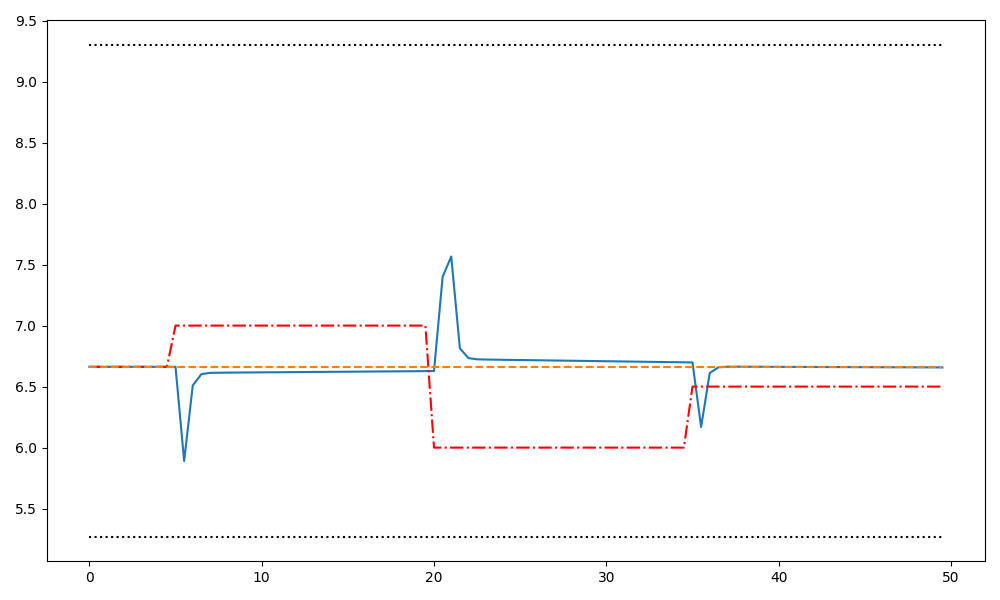
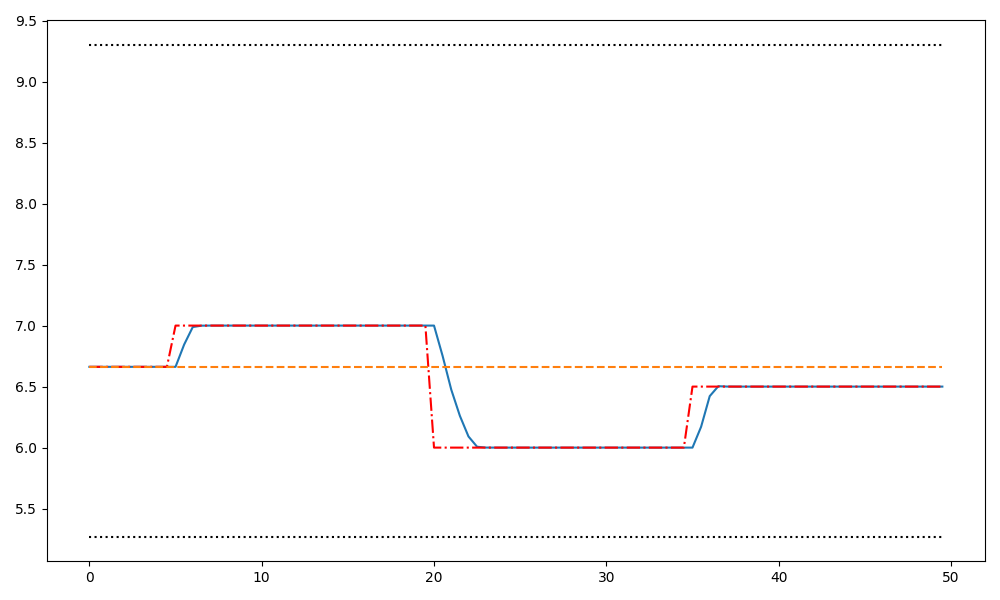
Rodrigo concertou a pressao

Changed region(s): [[0.465, 0.6, 0.93, 0.75], [0.186, 0.42, 0.496, 0.66], [0.155, 0.72, 0.186, 0.75]]

diff --git a/MPC_to_NN/MPCvsNN - Sistema Compressão/run_sim.py b/MPC_to_NN/MPCvsNN - Sistema Compressão/run_sim.py
@@ -51,14 +51,14 @@ a_exp = 0.5
 n_exp = 3.85
 
 # dm/dt = a11 * m + a12 * p + b12 * n
-a11 = P1 * A1/Lc * 1e3 * (float(lut([n_exp*1e4 , m_exp + 0.1])) - float(lut([n_exp*1e4 , m_exp - 0.1]))) / 2 / 0.1
-a12 = -A1 / Lc * 1e3
-b12 = P1 * A1/Lc * 1e3 * (float(lut([n_exp*1e4 + 1e3, m_exp])) - float(lut([n_exp*1e4  - 1e3, m_exp])))/ 2 / 1e3
+a11 = P1 * A1/Lc * 1e6 * (float(lut([n_exp*1e4 , m_exp + 0.1])) - float(lut([n_exp*1e4 , m_exp - 0.1]))) / 2 / 0.1
+a12 = -A1 / Lc * 1e6 
+b12 = P1 * A1/Lc * 1e10 * (float(lut([n_exp*1e4 + 1e3, m_exp])) - float(lut([n_exp*1e4  - 1e3, m_exp])))/ 2 / 1e3
 
 # dp/dt = a21 * m + a22 * p + b21 * a
-a21 = C**2 / Vp
-a22 = -C**2 / Vp * a_exp * kv * 500 / 2 / np.sqrt((p_exp - P_out) * 1000)
-b21 = -C**2 / Vp * kv * np.sqrt((p_exp - P_out) * 1000)
+a21 = C**2 / Vp/1e6
+a22 = -C**2 / Vp * a_exp * kv *500 / np.sqrt((p_exp - P_out) * 1000)/1e6
+b21 = -C**2 / Vp * kv * np.sqrt((p_exp - P_out) * 1000)/1e6
 
 Ac = np.array([[a11, a12],
                [a21, a22]])
@@ -85,7 +85,7 @@ A, B, C, D = ctrl.ssdata(sys_d)
 A_ = np.block([[A,B],[np.zeros((Nu,Nu)), np.eye(Nu)]])
 B_ = np.block([[B], [np.eye(Nu)]])
 
-Qtil = np.array([6e-3, 6e-4])
+Qtil = np.array([6e-3, 56e-4])
 Rtil = np.array([4e-5, 1e-3])
 
 Q = np.diag(np.kron(np.ones(p), Qtil))
@@ -124,7 +124,7 @@ for i in range(p):
 
 H = theta.T @ Q @ theta + R
 H = (H + H.T) / 2  # Garantir que H é simétrico
-F = np.block([[psi.T @ Q @ theta], [Q @ theta]])
+F = np.block([[psi.T @ Q @ theta], [-Q @ theta]])
 
 G = np.block([[theta],
                 [-theta],
@@ -154,7 +154,7 @@ uk = u0.copy()
 
 x_k = np.block([[xk], [uk]])
 yspk = (np.ones((p, Nx)) * ([7.745, 6.662] - y_op.flatten())).reshape(-1, 1)
-z_k = np.block([x_k.T, -yspk.T])
+z_k = np.block([x_k.T, yspk.T])
 
 yMax = np.tile(np.array([[12.3], [9.3]]) - y_op, (p,1))
 yMin = np.tile(np.array([[5.5], [5.27]]) - y_op, (p,1))
@@ -188,7 +188,7 @@ for j in range(K):
     deltaU_mpc[j, :] = deltaU_value[j, :2]
 
     uk = uk + np.eye(2) @ deltaU_mpc[j, :].reshape(-1,1)
-    xk = A @ xk + B @ [[1,0],[0,10000]] @ uk 
+    xk = A @ xk + B @ uk 
     x_k = np.block([[xk], [uk]])
 
     if j == 0:
@@ -200,7 +200,7 @@ for j in range(K):
     elif j == 70:
         yspk = (np.ones((p, Nx)) * ([7.5, 6.5] - y_op.flatten())).reshape(-1, 1)
 
-    z_k = np.block([x_k.T, -yspk.T])
+    z_k = np.block([x_k.T, yspk.T])
 
     z_k_store_mpc[j, :] = z_k
 
@@ -286,7 +286,7 @@ for k in range(K):
 t = np.arange(K) * Ts
 plt.figure(figsize=(10, 6))
 plt.plot(t,z_k_store_mpc[:, 0] + x_op[0], label='Massa (kg)')
-plt.plot(t,-z_k_store_mpc[:, 4] + x_op[0], label='Setpoint', linestyle='-.', color = 'red')
+plt.plot(t,z_k_store_mpc[:, 4] + x_op[0], label='Setpoint', linestyle='-.', color = 'red')
 plt.plot(t,z_k_store_nn[:, 0] + x_op[0], label='Massa NN (kg)', linestyle='--')
 plt.plot(t,np.ones((K,1)) * (yMax[0] + x_op[0]), label='Massa Max', linestyle=':', color='black')
 plt.plot(t,np.ones((K,1)) * (yMin[0] + x_op[0]), label='Massa Min', linestyle=':', color='black')
@@ -295,7 +295,7 @@ plt.savefig(os.path.join(output_dir, 'massa_mpc.png'))
 
 plt.figure(figsize=(10, 6))
 plt.plot(t,z_k_store_mpc[:, 1] + x_op[1], label='Pressão (MPa)')
-plt.plot(t,-z_k_store_mpc[:, 5] + x_op[1], label='Setpoint', linestyle='-.', color = 'red')
+plt.plot(t,z_k_store_mpc[:, 5] + x_op[1], label='Setpoint', linestyle='-.', color = 'red')
 plt.plot(t,z_k_store_nn[:, 1] + x_op[1], label='Pressão NN (MPa)', linestyle='--')
 plt.plot(t,np.ones((K,1)) * (yMax[1] + x_op[1]), label='Pressão Max', linestyle=':', color='black')
 plt.plot(t,np.ones((K,1)) * (yMin[1] + x_op[1]), label='Pressão Min', linestyle=':', color='black')
@@ -305,12 +305,16 @@ plt.savefig(os.path.join(output_dir, 'pressao_mpc.png'))
 plt.figure(figsize=(10, 6))
 plt.plot(t, z_k_store_mpc[:, 2] + u_op[0], label='Abertura da válvula (m)')
 plt.plot(t, z_k_store_nn[:, 2] + u_op[0], label='Abertura da válvula NN (m)', linestyle='--')
+plt.plot(t, np.ones((K,1)) * (uMax[0] + u_op[0]), label='Abertura Max', linestyle=':', color='black')
+plt.plot(t, np.ones((K,1)) * (uMin[0] + u_op[0]), label='Abertura Min', linestyle=':', color='black')
 plt.tight_layout()
 plt.savefig(os.path.join(output_dir, 'abertura_valvula_mpc.png'))
 
 plt.figure(figsize=(10, 6))
 plt.plot(t, z_k_store_mpc[:, 3] + u_op[1], label='Rotação do motor (rpm)')
 plt.plot(t, z_k_store_nn[:, 3] + u_op[1], label='Rotação do motor NN (rpm)', linestyle='--')
+plt.plot(t, np.ones((K,1)) * (uMax[1] + u_op[1]), label='Rotação Max', linestyle=':', color='black')
+plt.plot(t, np.ones((K,1)) * (uMin[1] + u_op[1]), label='Rotação Min', linestyle=':', color='black')
 plt.tight_layout()
 plt.savefig(os.path.join(output_dir, 'rotacao_motor_mpc.png'))
 
